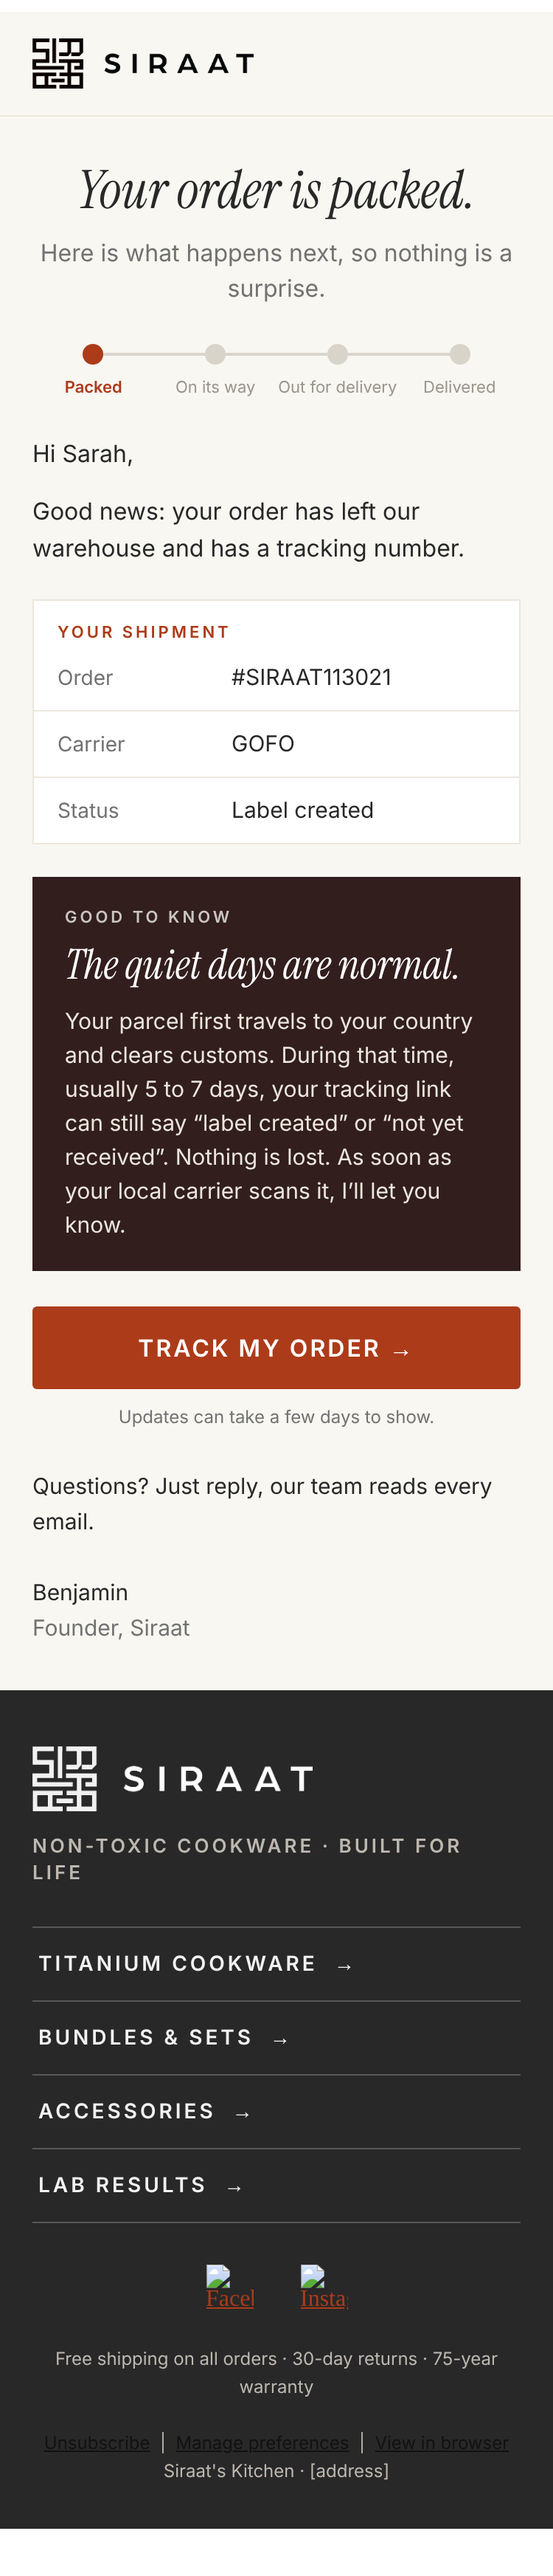
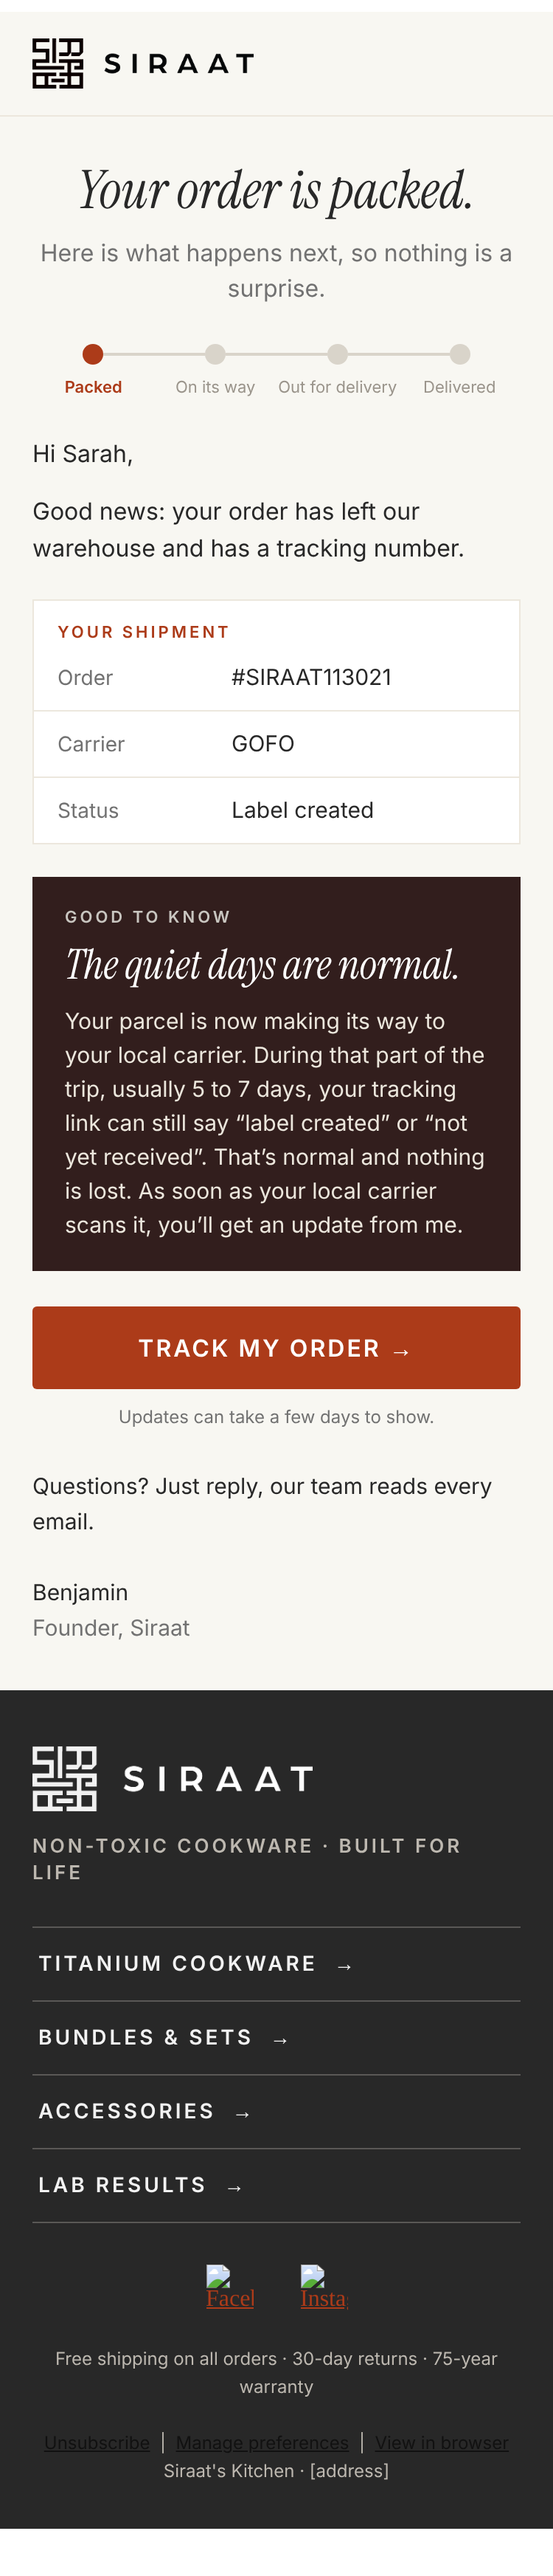
Z1: geen douane-tekst
Claude-Session: https://claude.ai/code/session_01HjCaDE95ohEXY6DPZTSH67

Changed region(s): [[0.1227, 0.3748, 0.8587, 0.4997]]

diff --git a/klaviyo/templates/v3/shipping/z1-packed-preview.html b/klaviyo/templates/v3/shipping/z1-packed-preview.html
@@ -107,7 +107,7 @@
   <table role="presentation" width="100%" cellpadding="0" cellspacing="0" border="0" bgcolor="#321E1D" style="background-color:#321E1D;">
   <tr><td bgcolor="#321E1D" style="background-color:#321E1D;padding:20px 22px 4px 22px;font-family:Inter,Arial,Helvetica,sans-serif;font-size:11px;line-height:14px;letter-spacing:2px;font-weight:600;color:#C9C6C0;">GOOD TO KNOW</td></tr>
   <tr><td bgcolor="#321E1D" style="background-color:#321E1D;padding:6px 22px 0 22px;font-family:'Instrument Serif','Times New Roman',serif;font-style:italic;font-size:28px;line-height:32px;color:#FFFFFF;">The quiet days are normal.</td></tr>
-  <tr><td bgcolor="#321E1D" style="background-color:#321E1D;padding:10px 22px 20px 22px;font-family:Inter,Arial,Helvetica,sans-serif;font-size:15px;line-height:23px;color:#ECE7DD;">Your parcel first travels to your country and clears customs. During that time, usually 5 to 7 days, your tracking link can still say &ldquo;label created&rdquo; or &ldquo;not yet received&rdquo;. Nothing is lost. As soon as your local carrier scans it, I&rsquo;ll let you know.</td></tr>
+  <tr><td bgcolor="#321E1D" style="background-color:#321E1D;padding:10px 22px 20px 22px;font-family:Inter,Arial,Helvetica,sans-serif;font-size:15px;line-height:23px;color:#ECE7DD;">Your parcel is now making its way to your local carrier. During that part of the trip, usually 5 to 7 days, your tracking link can still say &ldquo;label created&rdquo; or &ldquo;not yet received&rdquo;. That&rsquo;s normal and nothing is lost. As soon as your local carrier scans it, you&rsquo;ll get an update from me.</td></tr>
   </table>
 </td></tr>
 <!-- BLOCK cta: primaire knop, 340 px desktop, volle breedte mobiel. Vloeiend (width:100%;max-width:340px) zodat hij ook zonder <style> (Gmail-app) op 375 px past; Outlook: VML 340 px. -->
@@ -153,7 +153,7 @@
   <tr><td align="center" bgcolor="#282828" style="background-color:#282828;font-family:Inter,Arial,Helvetica,sans-serif;font-size:12px;line-height:19px;color:#BDB8B0;text-align:center;">
     Free shipping on all orders &middot; 30-day returns &middot; 75-year warranty<br><br>
     <a href="#" style="color:#111111;">Unsubscribe</a> &nbsp;|&nbsp; <a href="#" style="color:#111111;">Manage preferences</a> &nbsp;|&nbsp; <a href="#" style="color:#111111;">View in browser</a><br>
-    Siraat's Kitchen &middot; [address]<span style="display:none!important;visibility:hidden;mso-hide:all;font-size:1px;line-height:1px;max-height:0;max-width:0;opacity:0;overflow:hidden;color:#282828;">ref 20261030174121</span>
+    Siraat's Kitchen &middot; [address]<span style="display:none!important;visibility:hidden;mso-hide:all;font-size:1px;line-height:1px;max-height:0;max-width:0;opacity:0;overflow:hidden;color:#282828;">ref 20261030175054</span>
   </td></tr>
 </table>
 </td></tr>

diff --git a/klaviyo/templates/v3/shipping/z1-packed.html b/klaviyo/templates/v3/shipping/z1-packed.html
@@ -50,7 +50,7 @@
   <table role="presentation" width="100%" cellpadding="0" cellspacing="0" border="0" bgcolor="#321E1D" style="background-color:#321E1D;">
   <tr><td bgcolor="#321E1D" style="padding:20px 22px 4px 22px;font-family:Inter,Arial,Helvetica,sans-serif;font-size:11px;line-height:14px;letter-spacing:2px;font-weight:600;color:#C9C6C0;">GOOD TO KNOW</td></tr>
   <tr><td bgcolor="#321E1D" style="padding:6px 22px 0 22px;font-family:'Instrument Serif','Times New Roman',serif;font-style:italic;font-size:28px;line-height:32px;color:#FFFFFF;">The quiet days are normal.</td></tr>
-  <tr><td bgcolor="#321E1D" style="padding:10px 22px 20px 22px;font-family:Inter,Arial,Helvetica,sans-serif;font-size:15px;line-height:23px;color:#ECE7DD;">Your parcel first travels to your country and clears customs. During that time, usually 5 to 7 days, your tracking link can still say &ldquo;label created&rdquo; or &ldquo;not yet received&rdquo;. Nothing is lost. As soon as your local carrier scans it, I&rsquo;ll let you know.</td></tr>
+  <tr><td bgcolor="#321E1D" style="padding:10px 22px 20px 22px;font-family:Inter,Arial,Helvetica,sans-serif;font-size:15px;line-height:23px;color:#ECE7DD;">Your parcel is now making its way to your local carrier. During that part of the trip, usually 5 to 7 days, your tracking link can still say &ldquo;label created&rdquo; or &ldquo;not yet received&rdquo;. That&rsquo;s normal and nothing is lost. As soon as your local carrier scans it, you&rsquo;ll get an update from me.</td></tr>
   </table>
 </td></tr>
 {{BLOCK:cta label="Track my order" url="{{ event.tracking_link|default:'https://siraatskitchen.com/apps/parcelpanel' }}" pad="24px 44px 0 44px" sub="<div style='font-family:Inter,Arial,Helvetica,sans-serif;font-size:12px;line-height:18px;color:#727272;padding-top:10px;'>Updates can take a few days to show.</div>"}}

diff --git a/klaviyo/templates/v3/shipping/z1-packed.klaviyo.html b/klaviyo/templates/v3/shipping/z1-packed.klaviyo.html
@@ -104,7 +104,7 @@
   <table role="presentation" width="100%" cellpadding="0" cellspacing="0" border="0" bgcolor="#321E1D" style="background-color:#321E1D;">
   <tr><td bgcolor="#321E1D" style="background-color:#321E1D;padding:20px 22px 4px 22px;font-family:Inter,Arial,Helvetica,sans-serif;font-size:11px;line-height:14px;letter-spacing:2px;font-weight:600;color:#C9C6C0;">GOOD TO KNOW</td></tr>
   <tr><td bgcolor="#321E1D" style="background-color:#321E1D;padding:6px 22px 0 22px;font-family:'Instrument Serif','Times New Roman',serif;font-style:italic;font-size:28px;line-height:32px;color:#FFFFFF;">The quiet days are normal.</td></tr>
-  <tr><td bgcolor="#321E1D" style="background-color:#321E1D;padding:10px 22px 20px 22px;font-family:Inter,Arial,Helvetica,sans-serif;font-size:15px;line-height:23px;color:#ECE7DD;">Your parcel first travels to your country and clears customs. During that time, usually 5 to 7 days, your tracking link can still say &ldquo;label created&rdquo; or &ldquo;not yet received&rdquo;. Nothing is lost. As soon as your local carrier scans it, I&rsquo;ll let you know.</td></tr>
+  <tr><td bgcolor="#321E1D" style="background-color:#321E1D;padding:10px 22px 20px 22px;font-family:Inter,Arial,Helvetica,sans-serif;font-size:15px;line-height:23px;color:#ECE7DD;">Your parcel is now making its way to your local carrier. During that part of the trip, usually 5 to 7 days, your tracking link can still say &ldquo;label created&rdquo; or &ldquo;not yet received&rdquo;. That&rsquo;s normal and nothing is lost. As soon as your local carrier scans it, you&rsquo;ll get an update from me.</td></tr>
   </table>
 </td></tr>
 <tr><td align="center" class="pad" style="padding:24px 44px 0 44px;">

diff --git a/klaviyo/templates/v3/shipping/z2-in-transit-preview.html b/klaviyo/templates/v3/shipping/z2-in-transit-preview.html
@@ -147,7 +147,7 @@
   <tr><td align="center" bgcolor="#282828" style="background-color:#282828;font-family:Inter,Arial,Helvetica,sans-serif;font-size:12px;line-height:19px;color:#BDB8B0;text-align:center;">
     Free shipping on all orders &middot; 30-day returns &middot; 75-year warranty<br><br>
     <a href="#" style="color:#111111;">Unsubscribe</a> &nbsp;|&nbsp; <a href="#" style="color:#111111;">Manage preferences</a> &nbsp;|&nbsp; <a href="#" style="color:#111111;">View in browser</a><br>
-    Siraat's Kitchen &middot; [address]<span style="display:none!important;visibility:hidden;mso-hide:all;font-size:1px;line-height:1px;max-height:0;max-width:0;opacity:0;overflow:hidden;color:#282828;">ref 20261030174124</span>
+    Siraat's Kitchen &middot; [address]<span style="display:none!important;visibility:hidden;mso-hide:all;font-size:1px;line-height:1px;max-height:0;max-width:0;opacity:0;overflow:hidden;color:#282828;">ref 20261030175054</span>
   </td></tr>
 </table>
 </td></tr>

diff --git a/klaviyo/templates/v3/shipping/z3-out-for-delivery-preview.html b/klaviyo/templates/v3/shipping/z3-out-for-delivery-preview.html
@@ -146,7 +146,7 @@
   <tr><td align="center" bgcolor="#282828" style="background-color:#282828;font-family:Inter,Arial,Helvetica,sans-serif;font-size:12px;line-height:19px;color:#BDB8B0;text-align:center;">
     Free shipping on all orders &middot; 30-day returns &middot; 75-year warranty<br><br>
     <a href="#" style="color:#111111;">Unsubscribe</a> &nbsp;|&nbsp; <a href="#" style="color:#111111;">Manage preferences</a> &nbsp;|&nbsp; <a href="#" style="color:#111111;">View in browser</a><br>
-    Siraat's Kitchen &middot; [address]<span style="display:none!important;visibility:hidden;mso-hide:all;font-size:1px;line-height:1px;max-height:0;max-width:0;opacity:0;overflow:hidden;color:#282828;">ref 20261030174128</span>
+    Siraat's Kitchen &middot; [address]<span style="display:none!important;visibility:hidden;mso-hide:all;font-size:1px;line-height:1px;max-height:0;max-width:0;opacity:0;overflow:hidden;color:#282828;">ref 20261030175054</span>
   </td></tr>
 </table>
 </td></tr>

diff --git a/klaviyo/templates/v3/shipping/z4-pickup-preview.html b/klaviyo/templates/v3/shipping/z4-pickup-preview.html
@@ -146,7 +146,7 @@
   <tr><td align="center" bgcolor="#282828" style="background-color:#282828;font-family:Inter,Arial,Helvetica,sans-serif;font-size:12px;line-height:19px;color:#BDB8B0;text-align:center;">
     Free shipping on all orders &middot; 30-day returns &middot; 75-year warranty<br><br>
     <a href="#" style="color:#111111;">Unsubscribe</a> &nbsp;|&nbsp; <a href="#" style="color:#111111;">Manage preferences</a> &nbsp;|&nbsp; <a href="#" style="color:#111111;">View in browser</a><br>
-    Siraat's Kitchen &middot; [address]<span style="display:none!important;visibility:hidden;mso-hide:all;font-size:1px;line-height:1px;max-height:0;max-width:0;opacity:0;overflow:hidden;color:#282828;">ref 20261030174131</span>
+    Siraat's Kitchen &middot; [address]<span style="display:none!important;visibility:hidden;mso-hide:all;font-size:1px;line-height:1px;max-height:0;max-width:0;opacity:0;overflow:hidden;color:#282828;">ref 20261030175054</span>
   </td></tr>
 </table>
 </td></tr>

diff --git a/klaviyo/templates/v3/shipping/z5-failed-attempt-preview.html b/klaviyo/templates/v3/shipping/z5-failed-attempt-preview.html
@@ -146,7 +146,7 @@
   <tr><td align="center" bgcolor="#282828" style="background-color:#282828;font-family:Inter,Arial,Helvetica,sans-serif;font-size:12px;line-height:19px;color:#BDB8B0;text-align:center;">
     Free shipping on all orders &middot; 30-day returns &middot; 75-year warranty<br><br>
     <a href="#" style="color:#111111;">Unsubscribe</a> &nbsp;|&nbsp; <a href="#" style="color:#111111;">Manage preferences</a> &nbsp;|&nbsp; <a href="#" style="color:#111111;">View in browser</a><br>
-    Siraat's Kitchen &middot; [address]<span style="display:none!important;visibility:hidden;mso-hide:all;font-size:1px;line-height:1px;max-height:0;max-width:0;opacity:0;overflow:hidden;color:#282828;">ref 20261030174135</span>
+    Siraat's Kitchen &middot; [address]<span style="display:none!important;visibility:hidden;mso-hide:all;font-size:1px;line-height:1px;max-height:0;max-width:0;opacity:0;overflow:hidden;color:#282828;">ref 20261030175054</span>
   </td></tr>
 </table>
 </td></tr>

diff --git a/klaviyo/templates/v3/shipping/z6-delivered-preview.html b/klaviyo/templates/v3/shipping/z6-delivered-preview.html
@@ -146,7 +146,7 @@
   <tr><td align="center" bgcolor="#282828" style="background-color:#282828;font-family:Inter,Arial,Helvetica,sans-serif;font-size:12px;line-height:19px;color:#BDB8B0;text-align:center;">
     Free shipping on all orders &middot; 30-day returns &middot; 75-year warranty<br><br>
     <a href="#" style="color:#111111;">Unsubscribe</a> &nbsp;|&nbsp; <a href="#" style="color:#111111;">Manage preferences</a> &nbsp;|&nbsp; <a href="#" style="color:#111111;">View in browser</a><br>
-    Siraat's Kitchen &middot; [address]<span style="display:none!important;visibility:hidden;mso-hide:all;font-size:1px;line-height:1px;max-height:0;max-width:0;opacity:0;overflow:hidden;color:#282828;">ref 20261030174138</span>
+    Siraat's Kitchen &middot; [address]<span style="display:none!important;visibility:hidden;mso-hide:all;font-size:1px;line-height:1px;max-height:0;max-width:0;opacity:0;overflow:hidden;color:#282828;">ref 20261030175054</span>
   </td></tr>
 </table>
 </td></tr>

diff --git a/scripts/build_shipping_mails.py b/scripts/build_shipping_mails.py
@@ -77,7 +77,7 @@ M = {
                   hero('Your order is packed.', 'Here is what happens next, so nothing is a surprise.'),
                   text('Good news: your order has left our warehouse and has a tracking number.')
                   + box('YOUR SHIPMENT', [('Order', ORDER), ('Carrier', CAR), ('Status', LAST)])
-                  + dark('GOOD TO KNOW', 'The quiet days are normal.', 'Your parcel first travels to your country and clears customs. During that time, usually 5 to 7 days, your tracking link can still say &ldquo;label created&rdquo; or &ldquo;not yet received&rdquo;. Nothing is lost. As soon as your local carrier scans it, I&rsquo;ll let you know.')
+                  + dark('GOOD TO KNOW', 'The quiet days are normal.', 'Your parcel is now making its way to your local carrier. During that part of the trip, usually 5 to 7 days, your tracking link can still say &ldquo;label created&rdquo; or &ldquo;not yet received&rdquo;. That&rsquo;s normal and nothing is lost. As soon as your local carrier scans it, you&rsquo;ll get an update from me.')
                   + cta('Track my order', 'Updates can take a few days to show.'), 'Label created'),
     'z2-in-transit': (1, 'Your order is on its way', 'Your parcel has been scanned by the carrier and is moving.',
                       hero('Your parcel is on the&nbsp;move.', 'The carrier has it, and it is heading your way.'),

diff --git a/LOG.md b/LOG.md
@@ -284,3 +284,4 @@ Nieuwste bovenaan. Elke regel: datum, wat er gedaan is, wat het opleverde of wat
 - 30 okt 2026: S2c platte brief van Benjamin (geen header/logo, minimale footer) als extra variant voor Loop-herinnering, in Figma rij 155:2. Uitzondering op vaste header/footer pas na akkoord Floris.
 - 30 okt 2026: onderzoek ordercommunicatie (3 agents, read-only), zie research/ordercommunicatie/01-onderzoek-30okt.md. Plan A t/m E wacht op akkoord.
 - 30 okt 2026: verzendupdates Z1 t/m Z6 (ingepakt, onderweg, vandaag, afhalen, gemist, bezorgd) als HTML-voorbeeld op ParcelWILL-events, in Figma rij 163:2. Niet in Klaviyo.
+- 30 okt 2026: Z1 zonder 'customs' (Floris): 'making its way to your local carrier'. Figma bijgewerkt.
